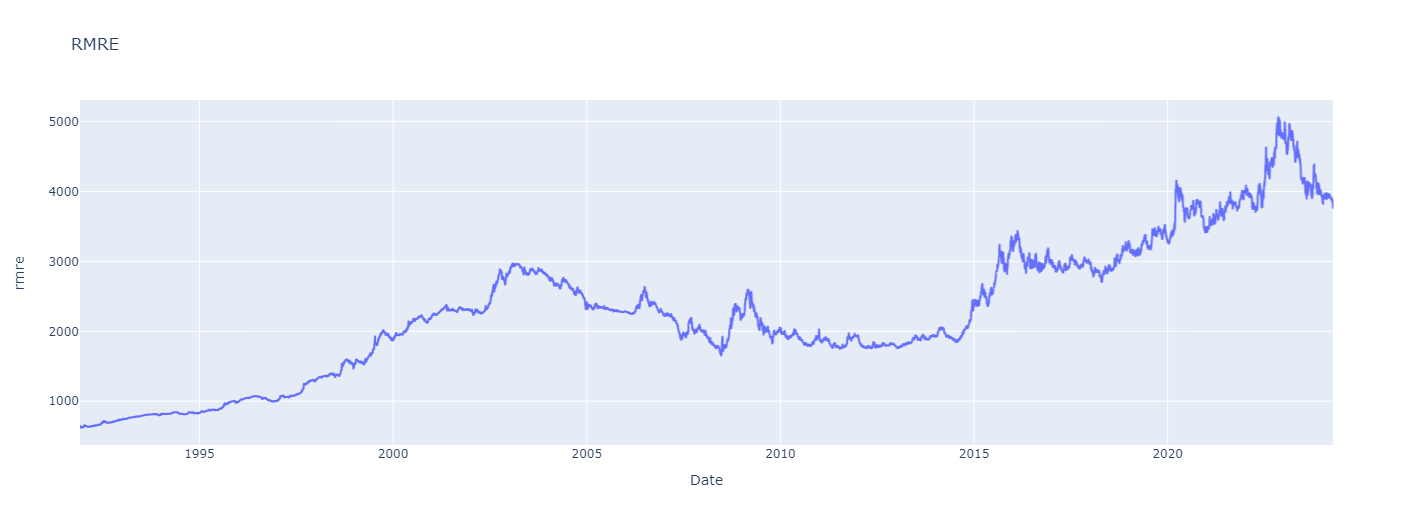
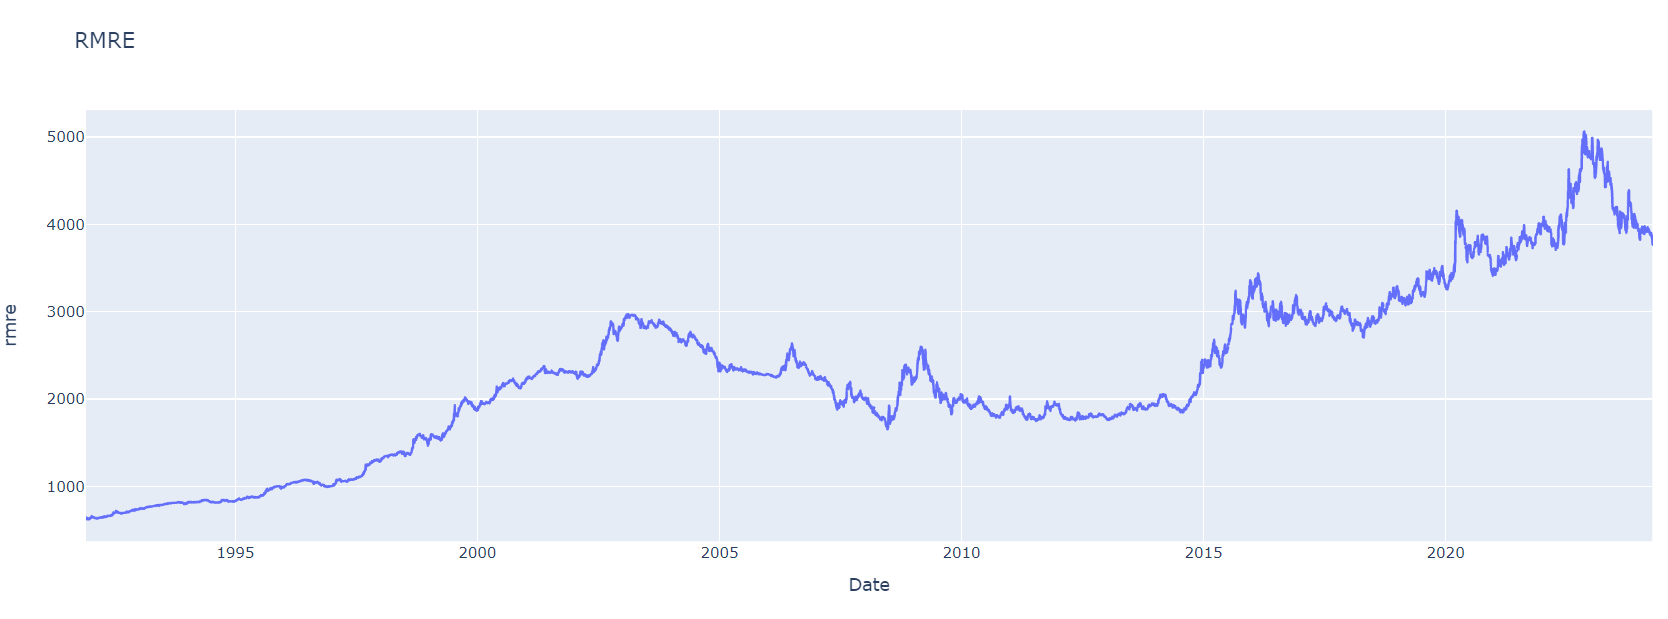
Version 0.1.0
Change

Changed region(s): [[0.0, 0.1524, 0.9965, 0.9143], [0.0311, 0.0305, 0.0934, 0.0914], [0.4982, 0.9143, 0.5294, 0.9752]]

diff --git a/README.md b/README.md
@@ -34,8 +34,7 @@ rmre_splited = rmre_data('2000-01-01','2023-12-31', log_return=True)
 
 #> "Warning: The information will be obtained from the next business day, as the desired date is a holiday or weekend."
 ```
-
-![](man/figures/README-example-2.png)
+<img src="man/figures/README-example-2.png" alt="Example Image" style="width: 1000px; height: 360px;">
 
 ## Referencias
 
